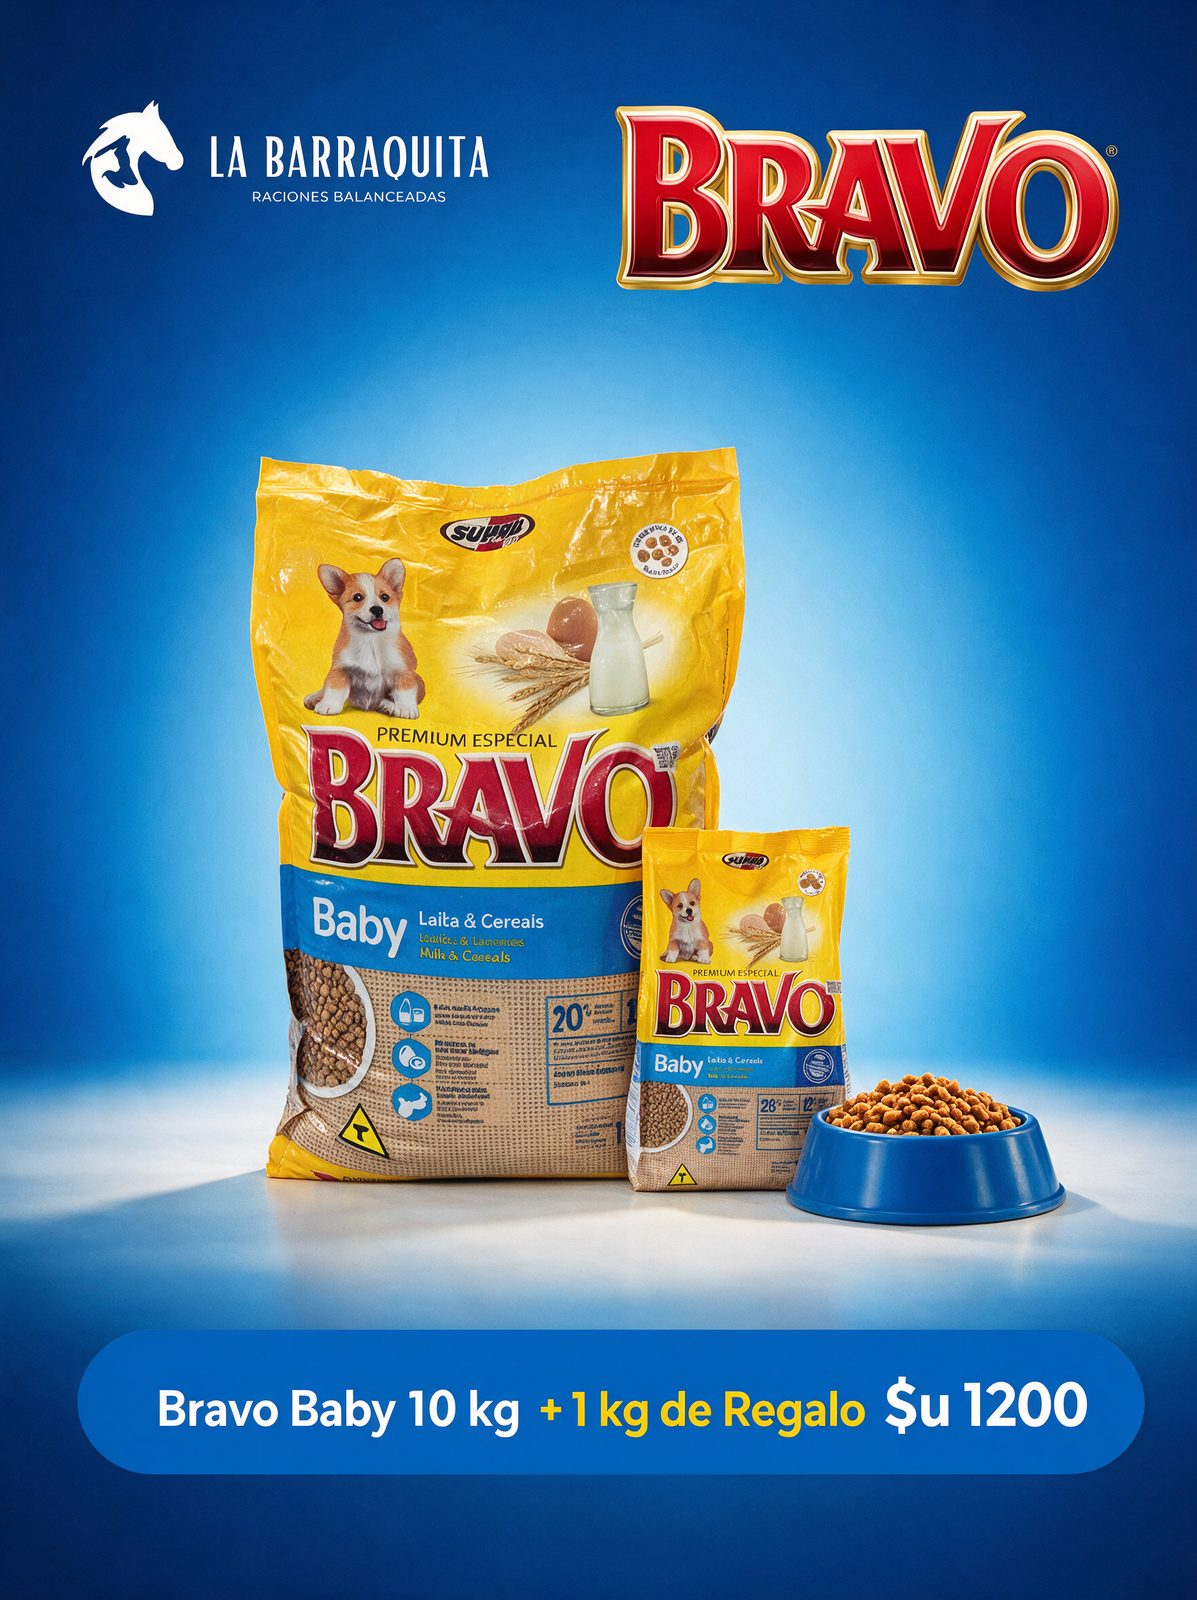
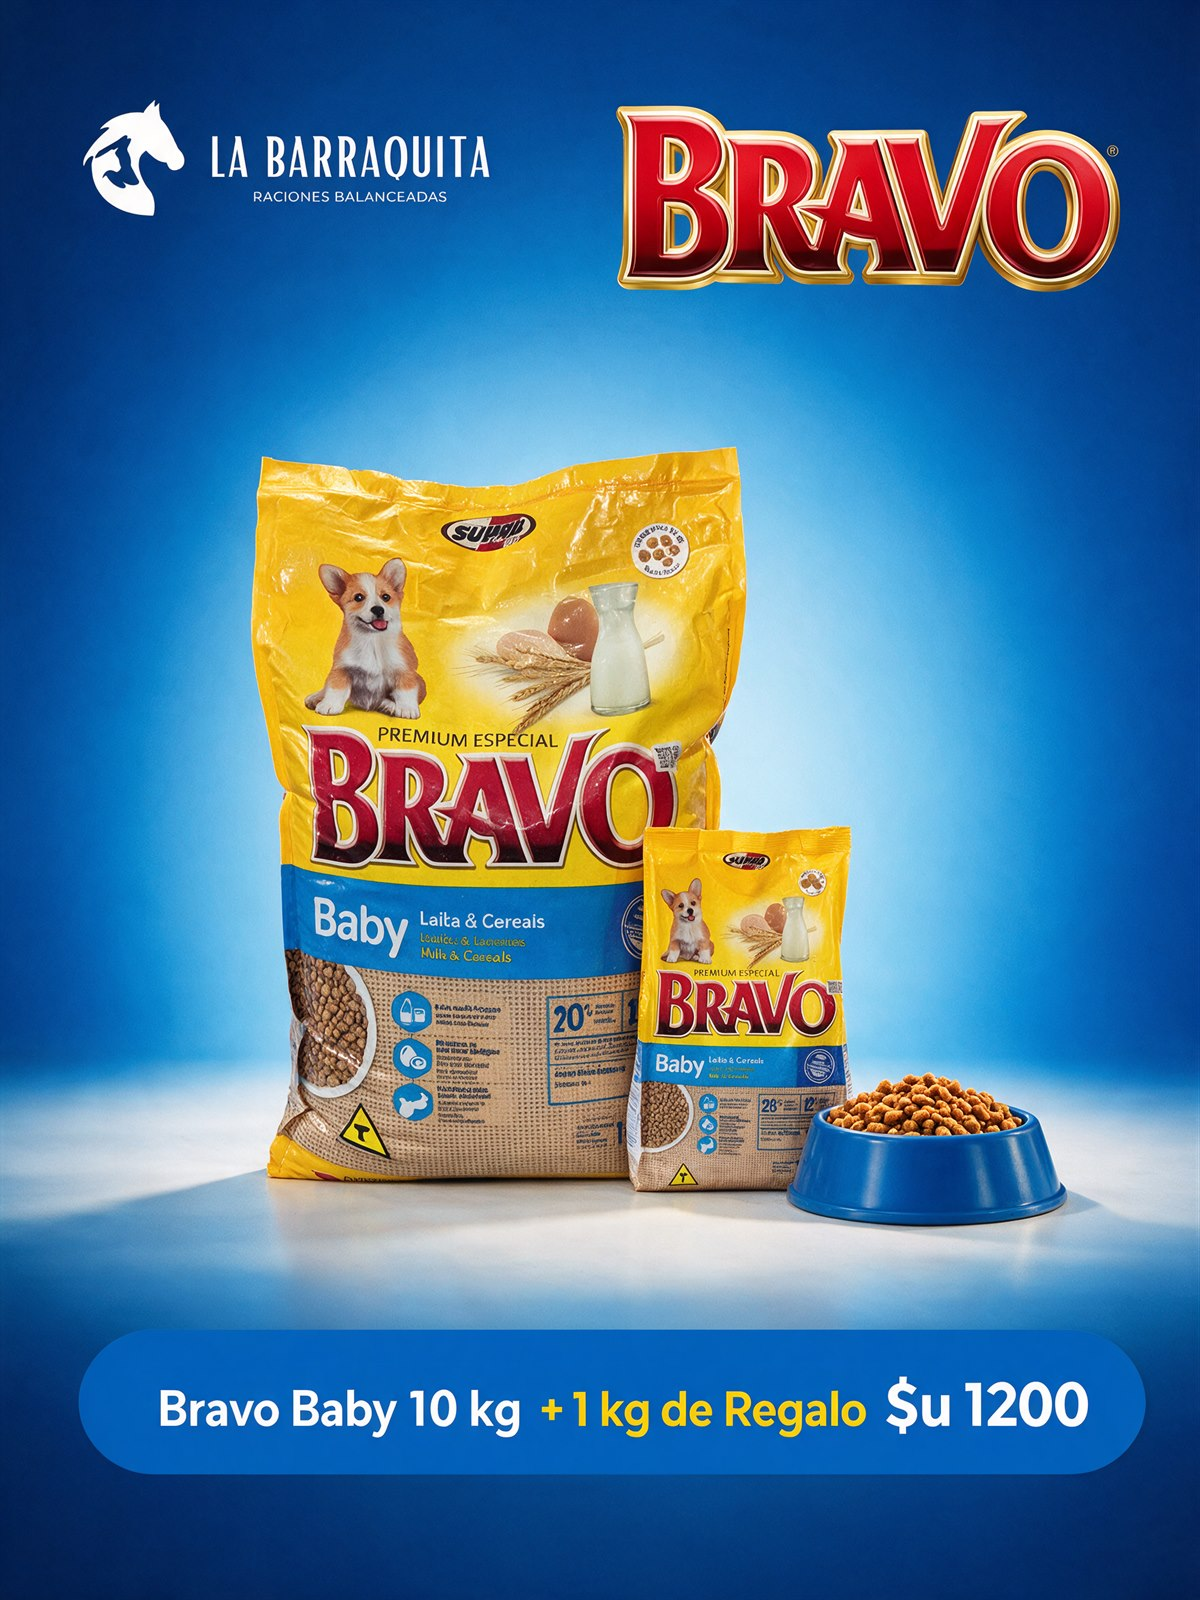
Unifica el tamaño de las piezas de oferta
Las siete piezas venían en tres proporciones distintas (3:4, 9:16 y 4:5),
así que dentro del recuadro 4:5 del carrusel unas quedaban con bandas
difuminadas a los costados y otras llenaban el cuadro entero: la de
comerciantes se veía al 70 % del ancho y la de "100 % nutrición" al 100 %.

Ahora todas se generan a 1200 × 1600 (3:4), que es la proporción en la que
vino diseñada la campaña, y el recuadro pasa a 3:4. Las cinco piezas que ya
eran 3:4 se reexportaron desde los PNG originales sin tocar el encuadre; a
la de comerciantes (9:16) se le extendió el lienzo continuando el fondo
liso y la franja inferior; a la de "100 % nutrición" (4:5) se le recortó un
6 % de ancho de fondo rojo vacío. Ninguna pierde texto ni precio.

diff --git a/css/styles.css b/css/styles.css
@@ -176,13 +176,13 @@ a.slide{display:block;cursor:pointer;-webkit-tap-highlight-color:transparent}
 }
 a.slide:focus-visible{outline:none}
 a.slide:focus-visible .slide-in{outline:3px solid var(--wa);outline-offset:-3px}
-/* El alto sale del propio recuadro: 4:5 exacto, igual que las fotos de oferta.
-   Así encastran sin bandas. Las que no son 4:5 se rellenan con el fondo difuminado. */
+/* El alto sale del propio recuadro: 3:4 exacto, igual que las fotos de oferta.
+   Así encastran sin bandas. Las que no son 3:4 se rellenan con el fondo difuminado. */
 .slide-in{
-  position:relative;width:100%;aspect-ratio:4/5;overflow:hidden;border-radius:16px;
+  position:relative;width:100%;aspect-ratio:3/4;overflow:hidden;border-radius:16px;
   background:var(--surface);box-shadow:0 12px 30px -20px rgba(92,27,38,.5);
 }
-/* Relleno difuminado con la misma foto (evita bandas vacías en fotos que no son 4:5) */
+/* Relleno difuminado con la misma foto (evita bandas vacías en fotos que no son 3:4) */
 .slide-in::before{content:"";position:absolute;inset:0;background:var(--bg) center/cover no-repeat;filter:blur(22px) brightness(.92);transform:scale(1.18);z-index:0}
 .slide-in img{position:relative;z-index:1;width:100%;height:100%;object-fit:contain;display:block;transition:transform .35s ease}
 .dots{display:flex;gap:9px;justify-content:center;margin-top:16px}
@@ -526,7 +526,7 @@ footer{margin-top:72px;background:var(--ink);color:#BFB3A6;border-top:3px solid 
 }
 
 @media (max-width:860px){
-  /* el alto lo define .slide-in (4:5) */
+  /* el alto lo define .slide-in (3:4) */
   .slide{flex-basis:50%;padding:0 7px}
   .hdr-search{order:3;flex-basis:100%;max-width:none}
   .top-row{flex-wrap:wrap;gap:12px}
@@ -571,7 +571,7 @@ footer{margin-top:72px;background:var(--ink);color:#BFB3A6;border-top:3px solid 
   .hero{padding:22px 0 16px}
   .hero-title h2{font-size:1.35rem}
   .hero-title span{display:none}
-  /* el alto lo define .slide-in (4:5) */
+  /* el alto lo define .slide-in (3:4) */
   .slide{flex-basis:100%;padding:0 5px}
   .car-nav{width:38px;height:38px}
   .car-hint{font-size:.76rem;gap:7px;padding:8px 14px;margin-top:14px}

diff --git a/js/app.js b/js/app.js
@@ -4,7 +4,7 @@
   var WA = "59892109806";
   /* ── Ofertas del mes ──
      Cada oferta es un slide del carrusel y se toca para pedirla por WhatsApp.
-     Para cambiar las promos del mes: reemplazar las imágenes (4:5) y el texto de "msg". */
+     Para cambiar las promos del mes: reemplazar las imágenes (3:4, 1200 × 1600) y el texto de "msg". */
   var OFERTAS = [
     {
       img: "img/ofertas/nhock-premium-25-10.jpg",
@@ -661,7 +661,7 @@
       s.target = "_blank"; s.rel = "noopener";
       s.setAttribute("aria-label", "Pedir por WhatsApp: " + o.alt);
       var inner = document.createElement("div"); inner.className = "slide-in";
-      // Fondo difuminado con la misma foto para rellenar las bandas (imágenes que no son 4:5).
+      // Fondo difuminado con la misma foto para rellenar las bandas (imágenes que no son 3:4).
       // URL absoluta: el var() se consume en el CSS (carpeta css/), una ruta relativa se resolvería mal.
       var bgUrl = new URL(o.img, document.baseURI).href;
       inner.style.setProperty("--bg", 'url("' + bgUrl.replace(/"/g, "%22") + '")');
